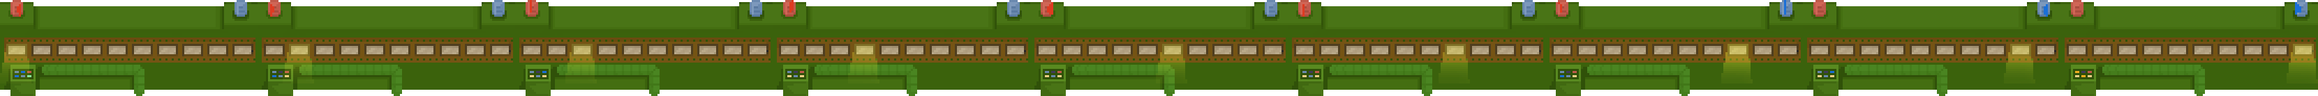
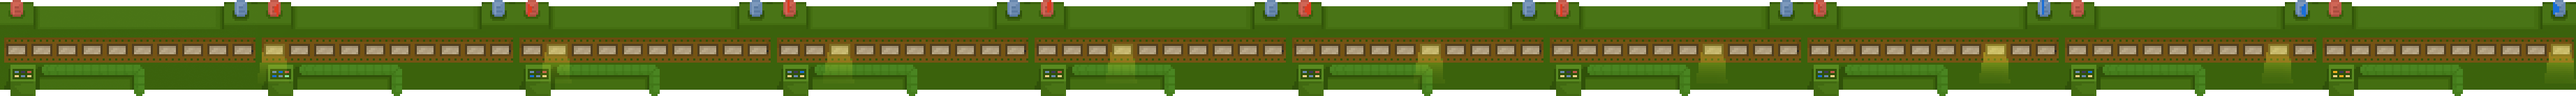
remove unused sprites, add new machine animations

diff --git a/html/game.js b/html/game.js
@@ -19,9 +19,6 @@ var manifest = {
 		"machine-mail": "img/machine-mail.png",
 		"machine-photo": "img/machine-photo.png",
 		"machine-video": "img/machine-video.png",
-		"machine-only-mail": "img/machine-only-mail.png",
-		"machine-only-photo": "img/machine-only-photo.png",
-		"machine-only-video": "img/machine-only-video.png",
 		"tote-email-good": "img/tote-mail.png",
 		"tote-email-good-full": "img/tote-mail-full.png",
 		"tote-video-good": "img/tote-video.png",
@@ -181,18 +178,21 @@ var manifest = {
 			"msPerFrame": 100
 		},
 		"mail": {
-			"strip": "img/machine-only-mail-anim-f20.png",
-			"frames": 20,
+			"strip": "img/machine-only-mail-anim.png",
+			"frames": 21,
+			"repeatAt": 1,
 			"msPerFrame": 100
 		},
 		"photo": {
 			"strip": "img/machine-only-photo-anim.png",
-			"frames": 9,
+			"frames": 10,
+			"repeatAt": 1,
 			"msPerFrame": 300
 		},
 		"vid": {
-			"strip": "img/machine-only-video-anim-f13.png",
-			"frames": 13,
+			"strip": "img/machine-only-video-anim.png",
+			"frames": 14,
+			"repeatAt": 1,
 			"msPerFrame": 100
 		},
 		"warning": {
